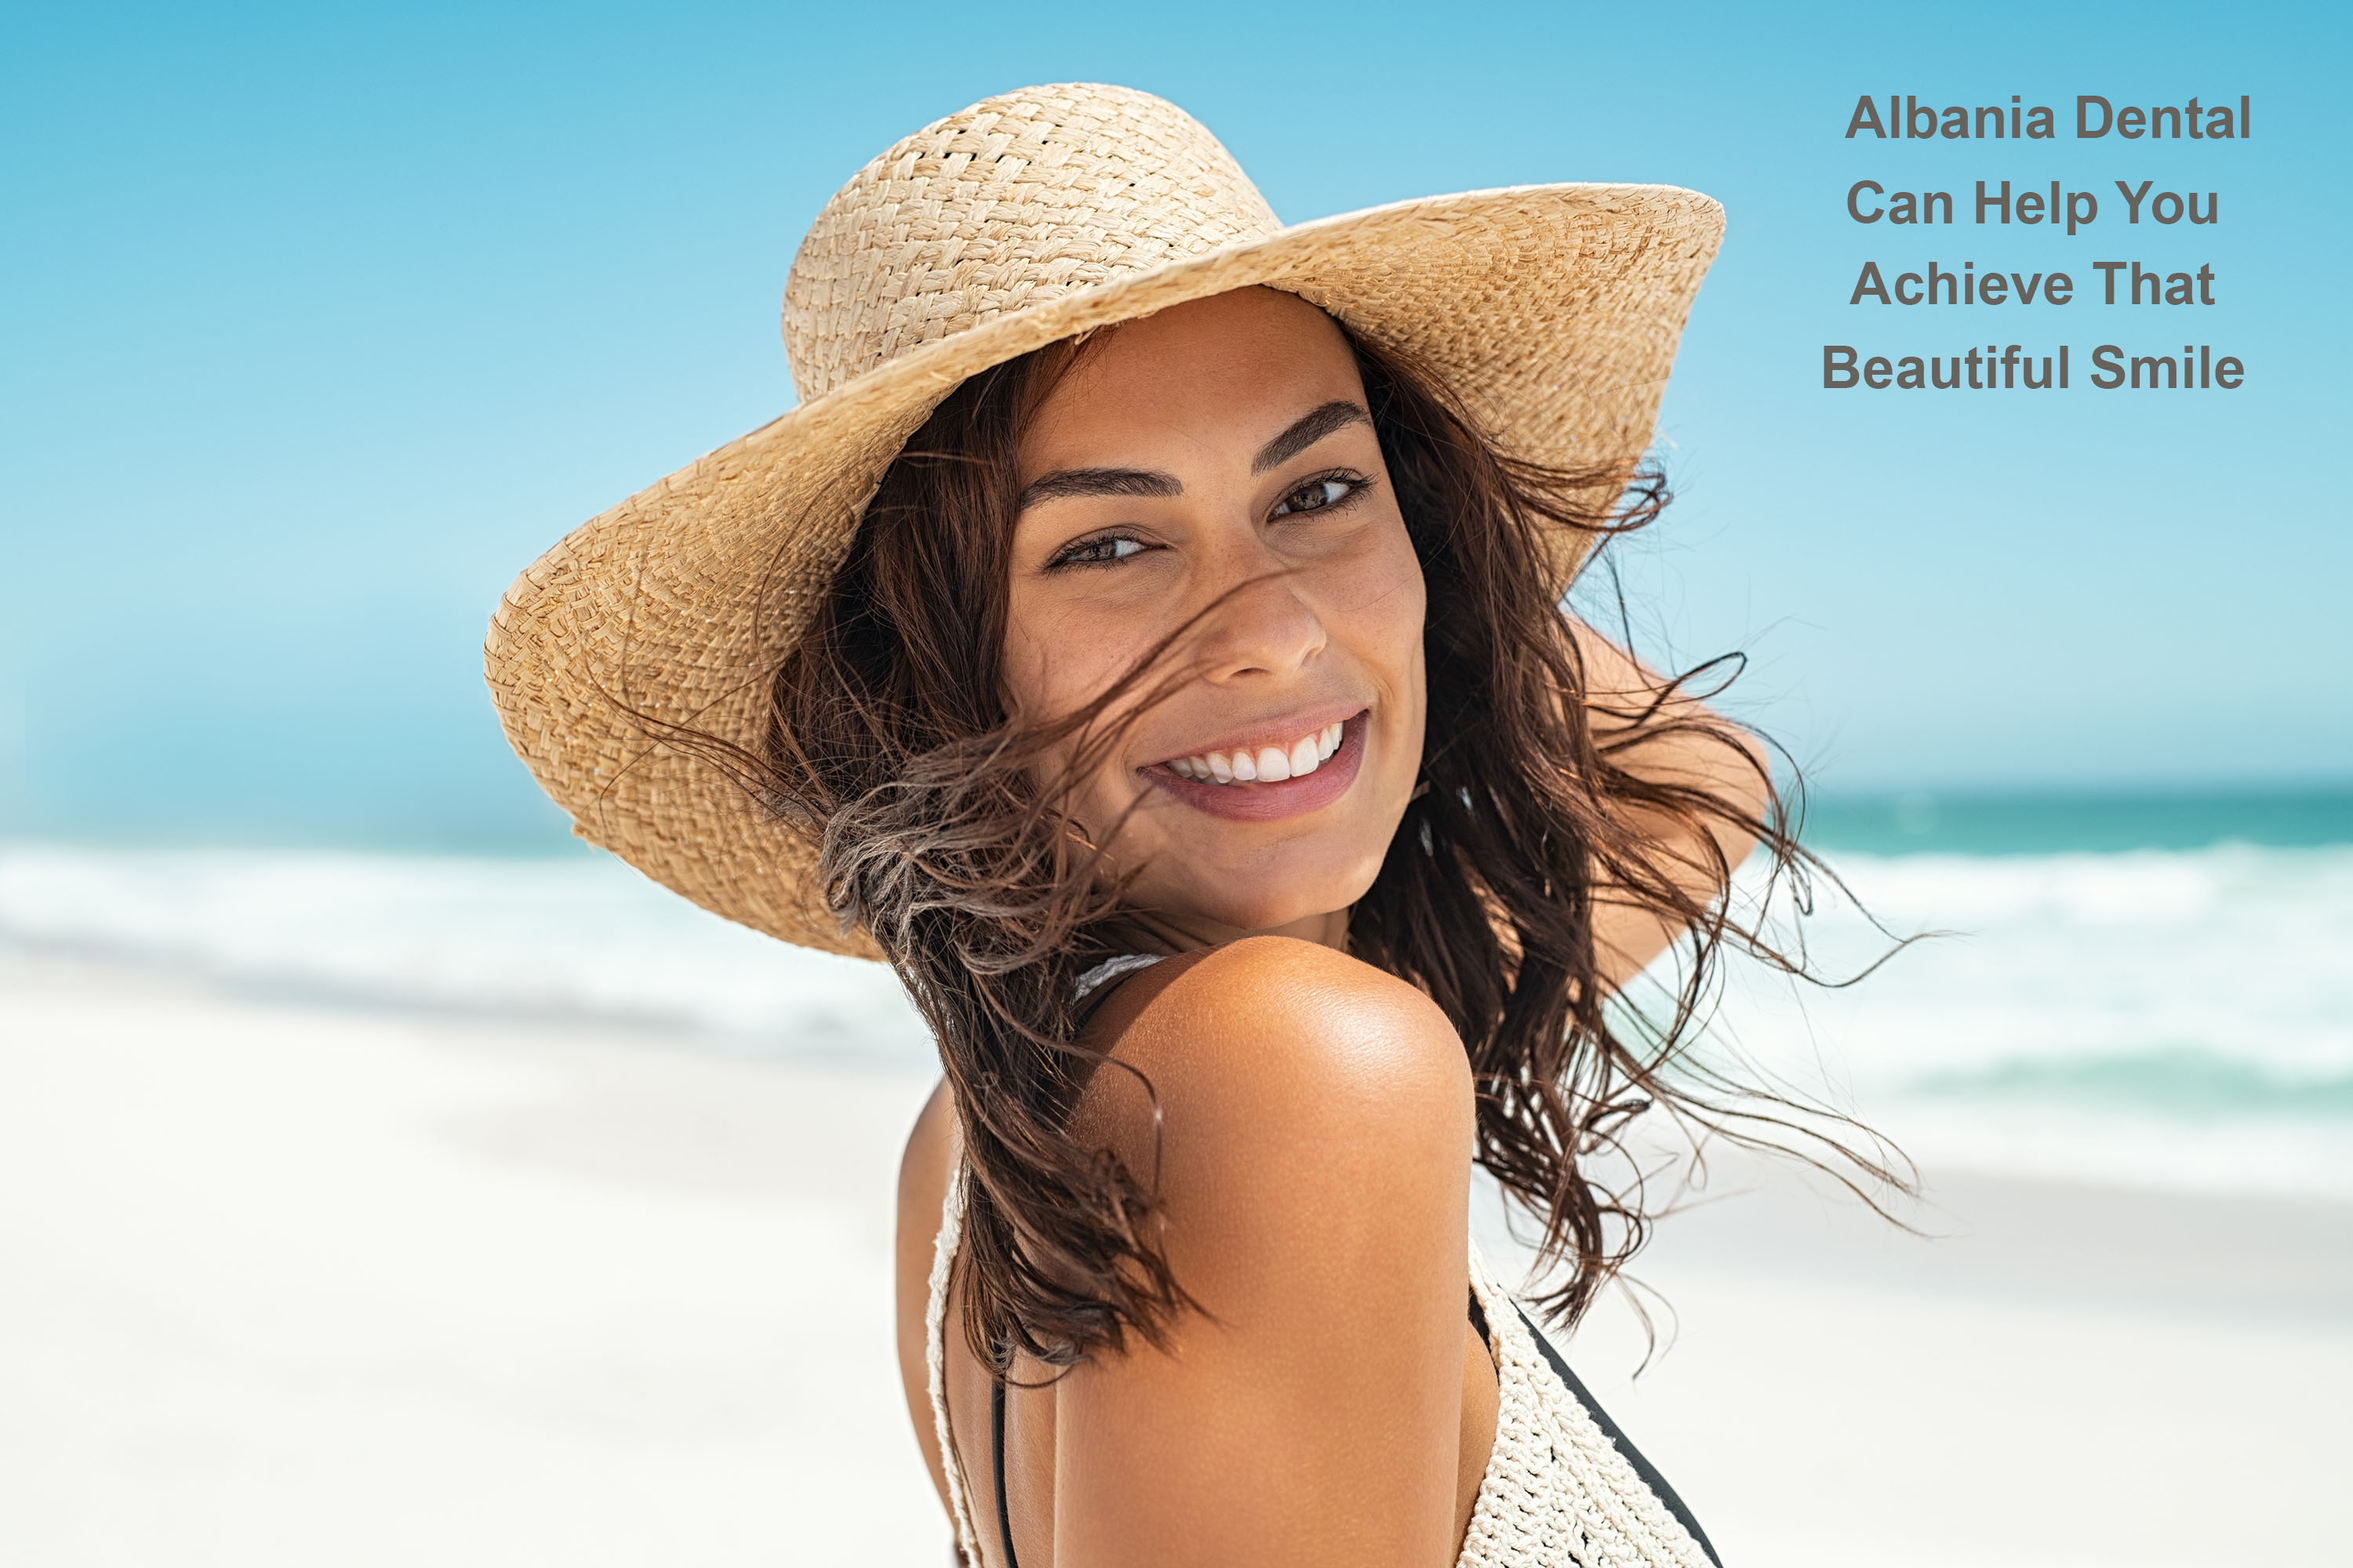
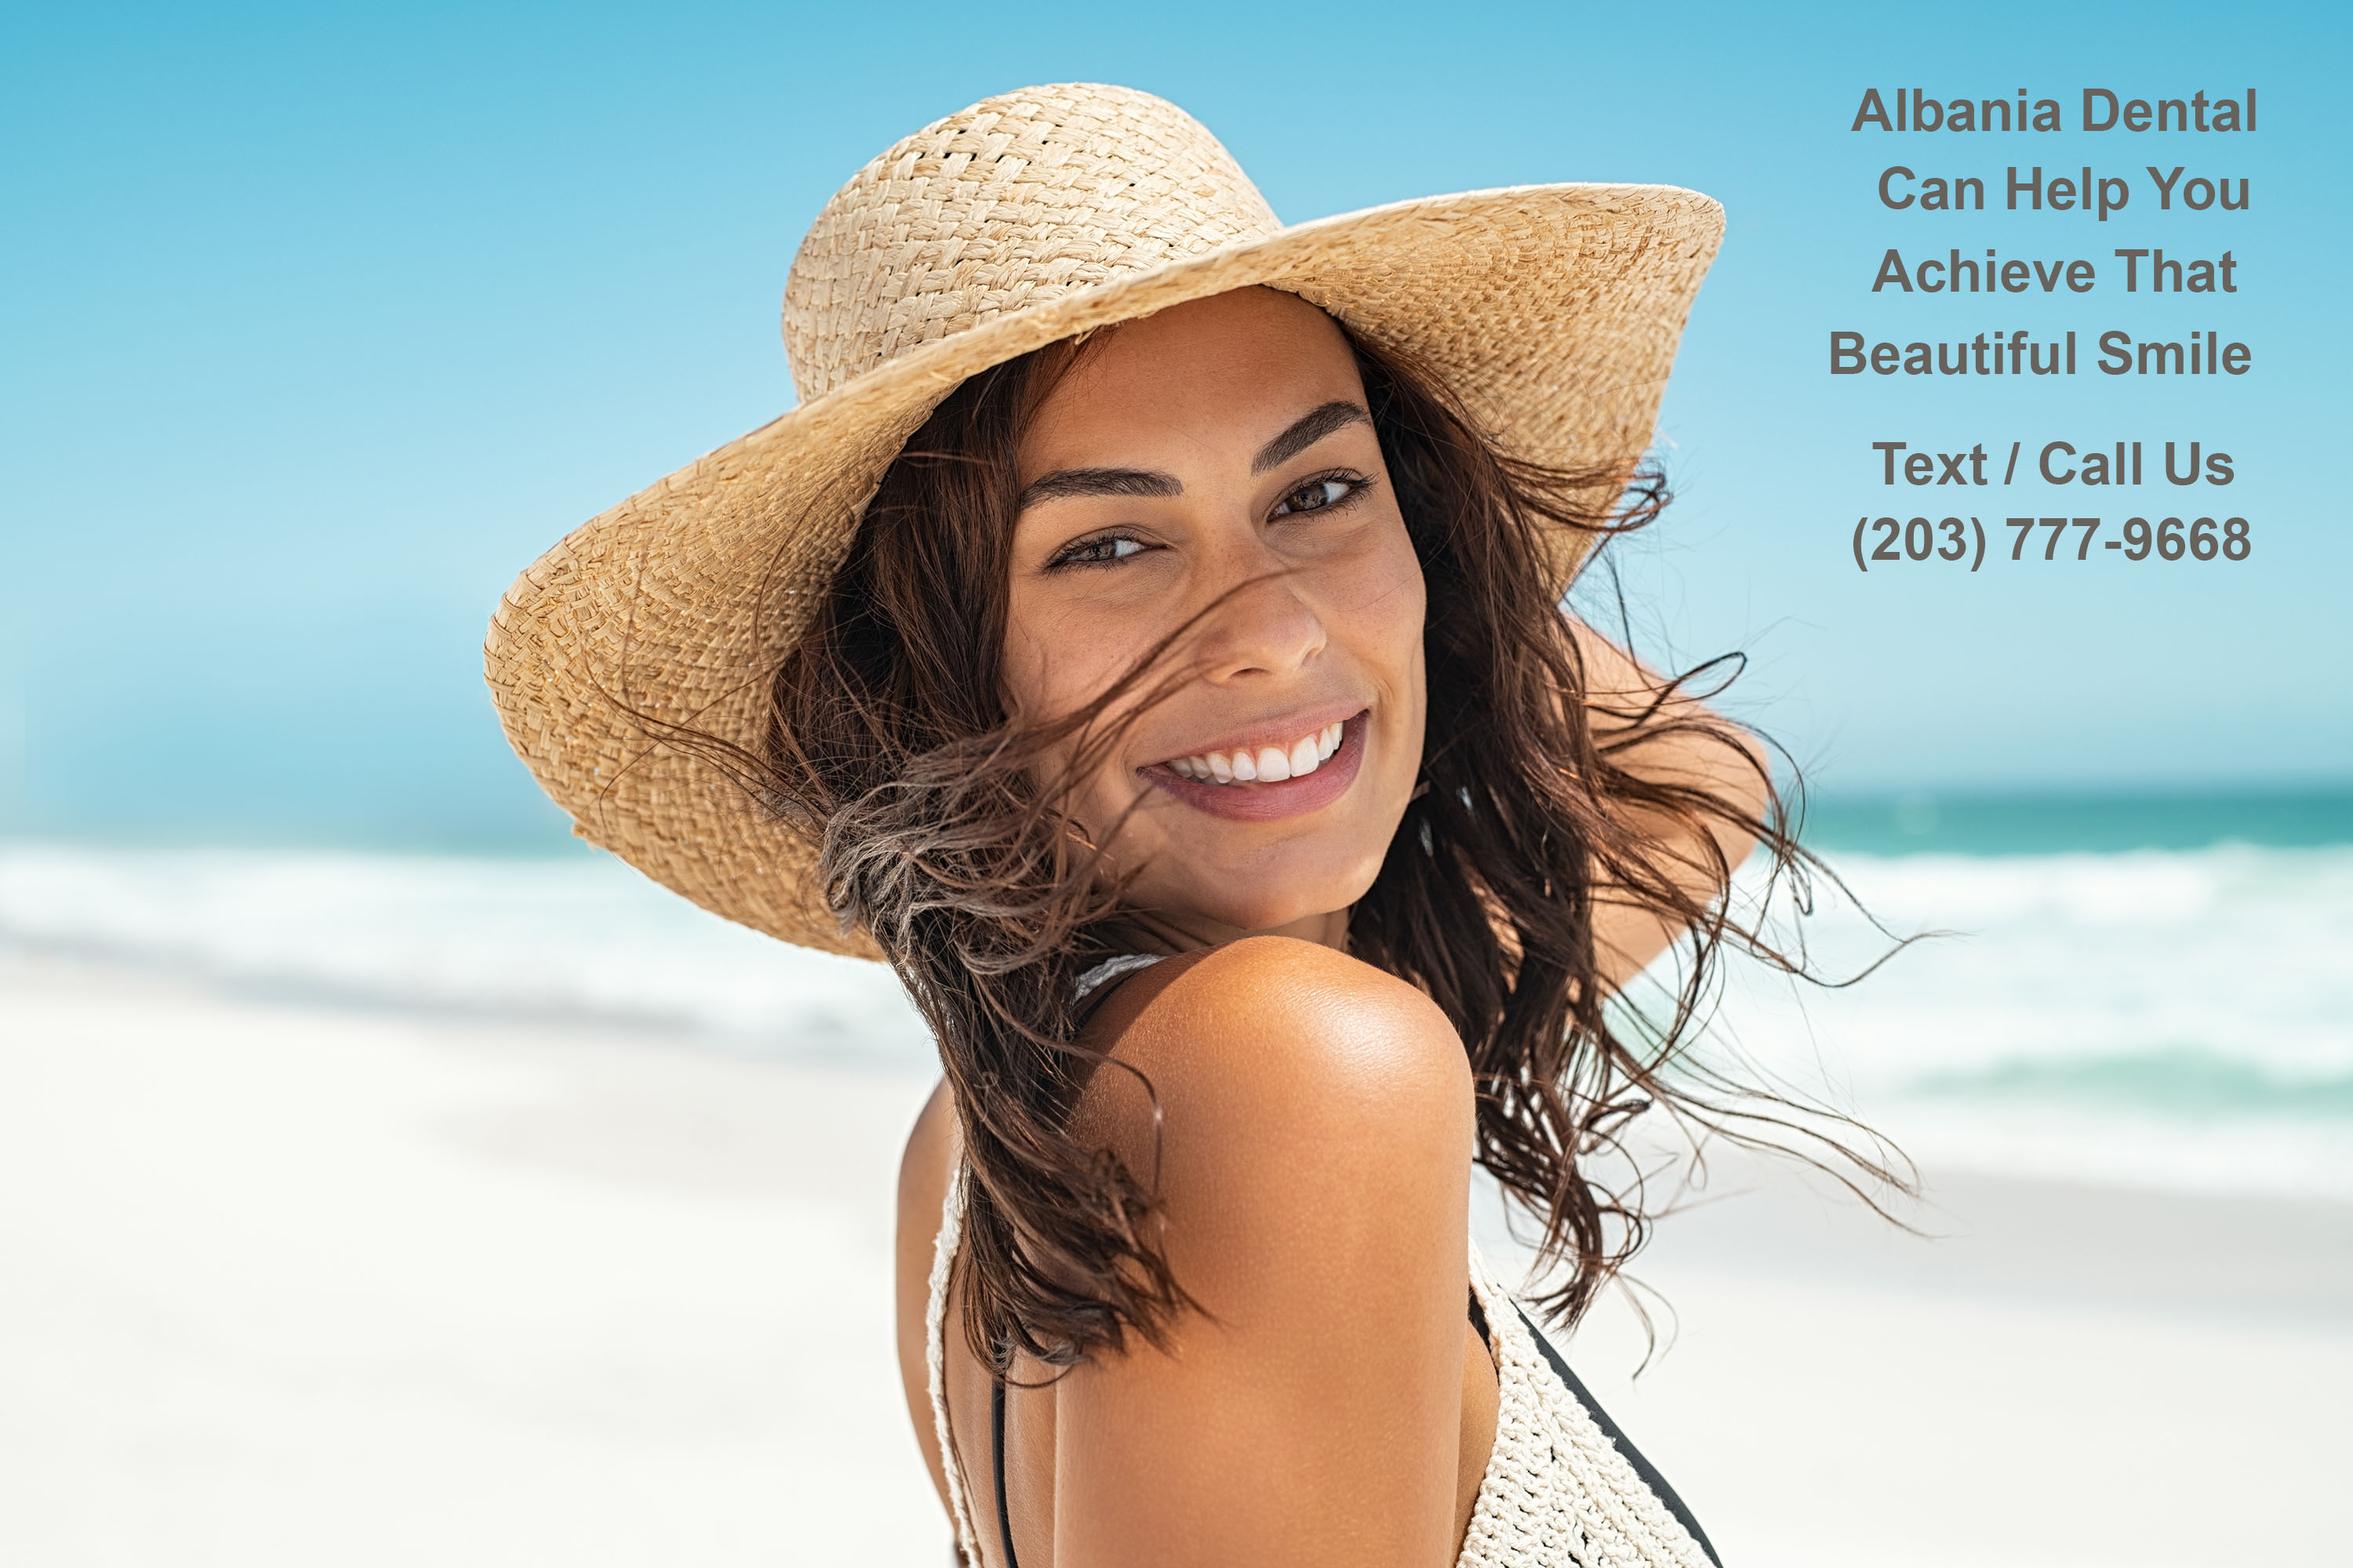
Added weave

Changed region(s): [[0.775, 0.062, 0.961, 0.248], [0.775, 0.279, 0.961, 0.372]]

diff --git a/index.html b/index.html
@@ -22,7 +22,9 @@
 
             gtag('config', 'G-DGPV2DQ4WG');
             </script>
+            <script defer src="https://book.getweave.com/schedule/d391f2b6-55ae-47f0-866d-ea5814c05715/widget.js" ></script>
     <title>New Haven, Dentist - Albania Dental - Home</title>
+    
 </head>
 <body>
     <!-- Google Tag Manager (noscript) -->
@@ -77,10 +79,10 @@
     <section class="build">
 
         <div class="heroContainer">
-            <img src="Pictures/heroSectionImg3B2.jpg" class="heroImg1" alt="Background image with doctor explaining procedures with client">
-            <a href="book.html">
+            <img src="Pictures/heroSectionImg3B.jpg" class="heroImg1" alt="Background image with doctor explaining procedures with client">
+            <!-- <a href="book.html">
             <button class="heroButton">BOOK NOW</button>
-            </a>
+            </a> -->
         </div>
 
         <div class="indexPatReviewH2">
